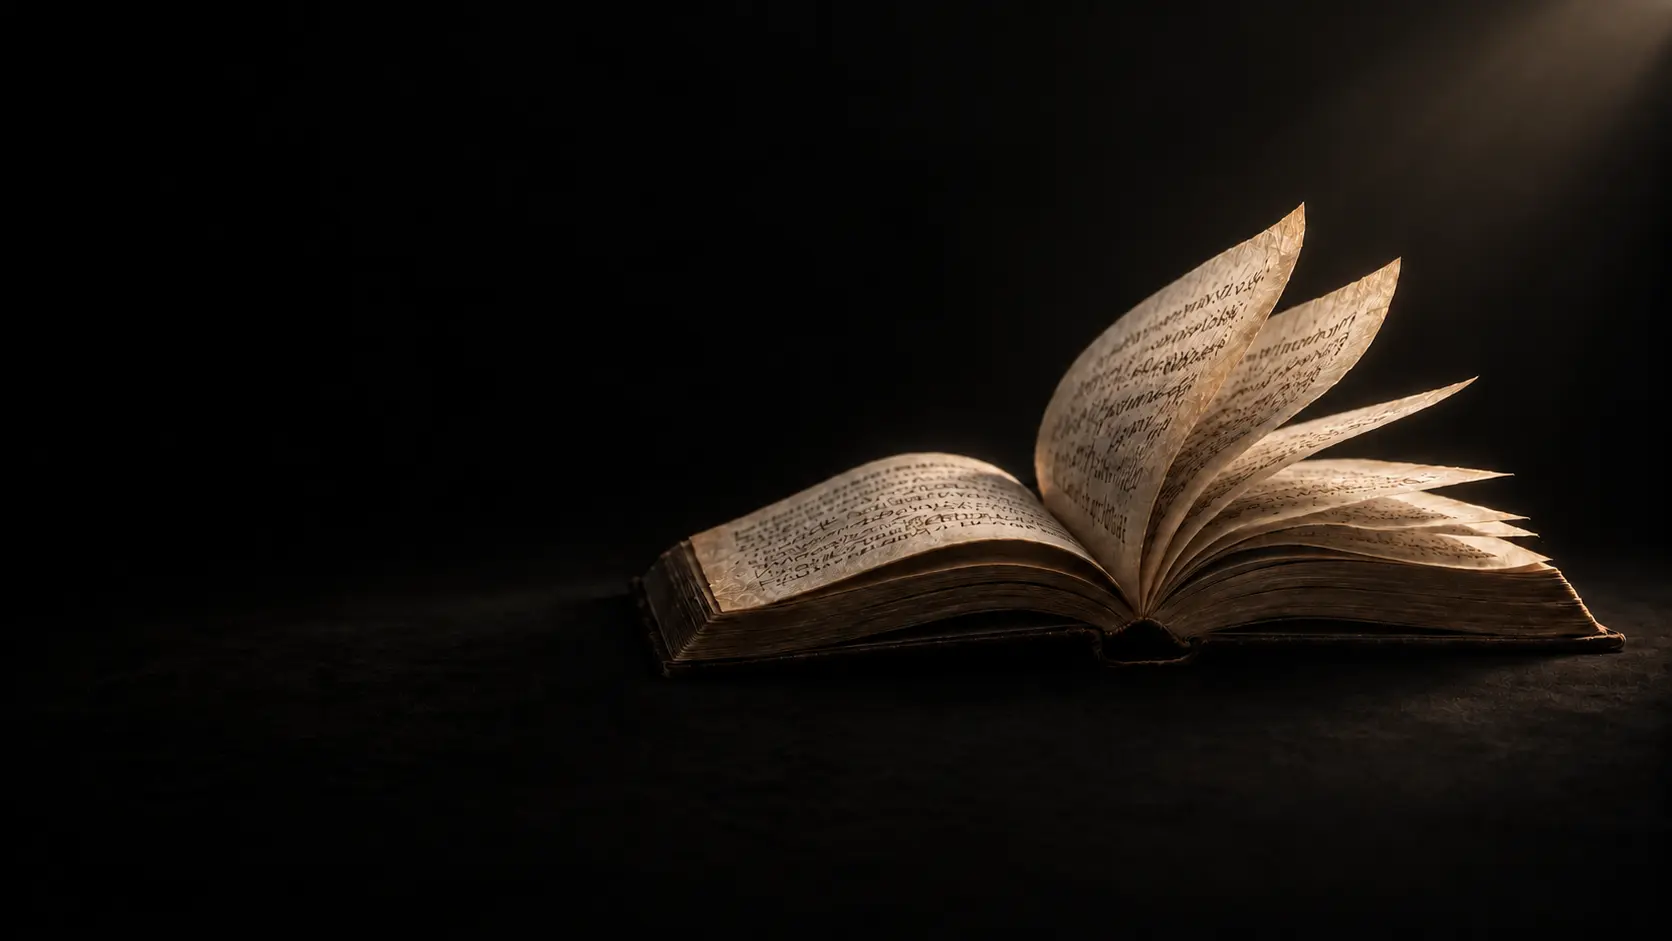
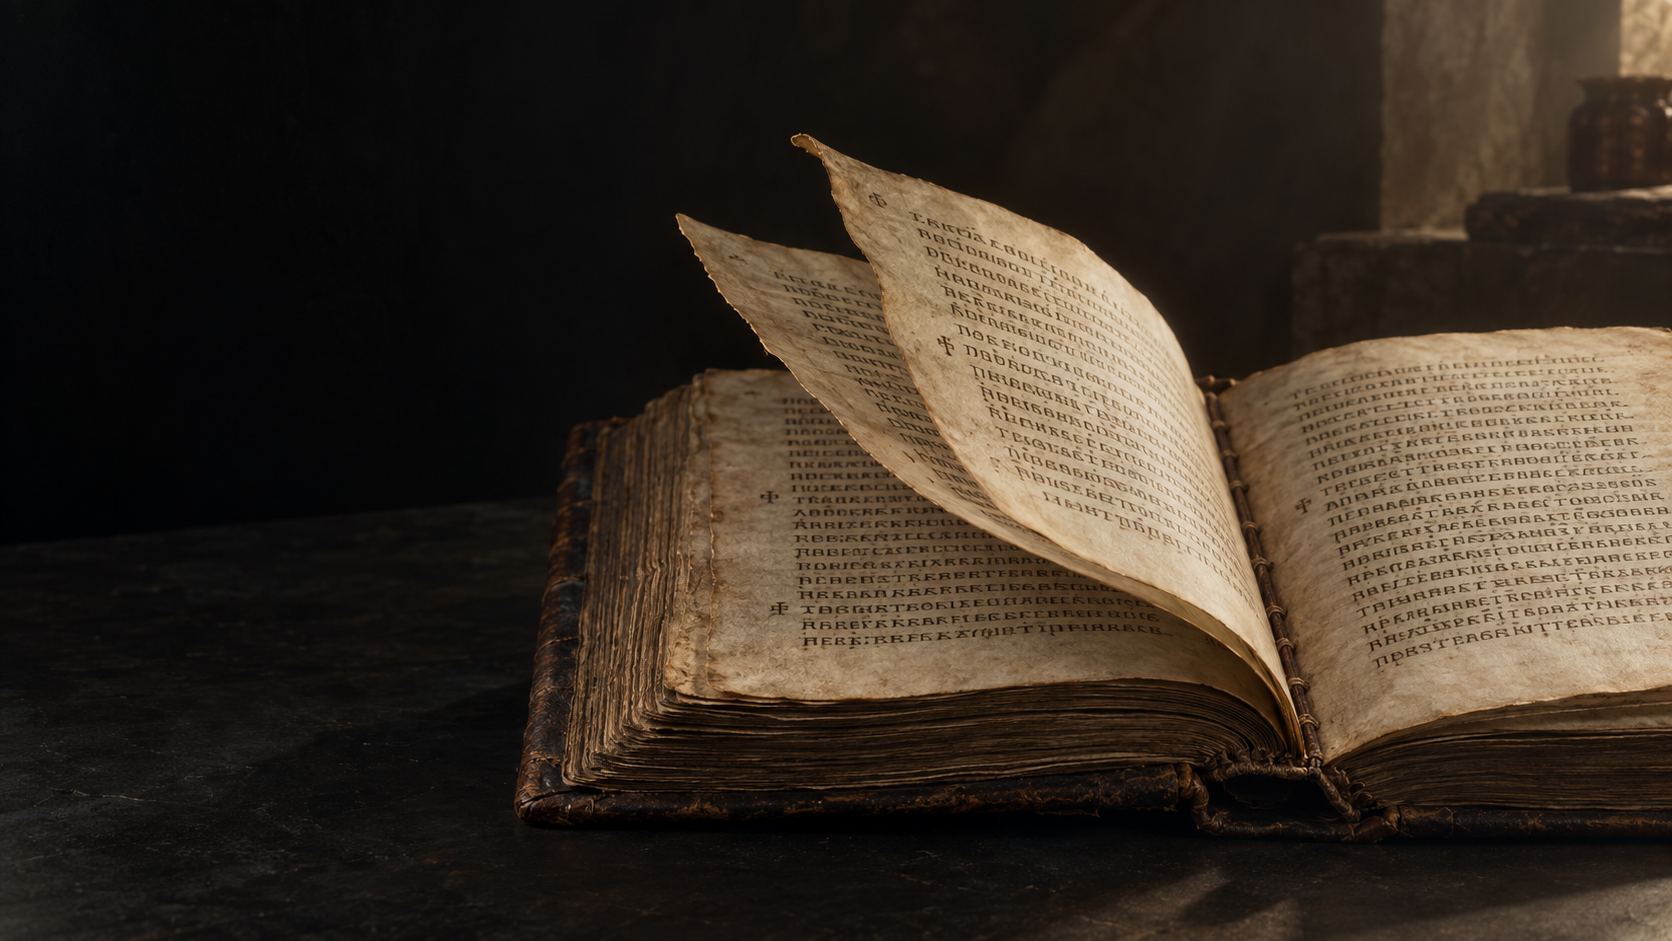
Fix hero reflow and header stacking; update manuscript artwork

diff --git a/components/v10/StoryHero.module.css b/components/v10/StoryHero.module.css
@@ -1,13 +1,16 @@
-.hero { position: relative; isolation: isolate; overflow: clip; background: #080909; color: #f2eee5; border-bottom: 1px solid #38332b; }
-.art { position: absolute; inset: 0; z-index: -3; }
-.art img { object-fit: cover; object-position: 70% center; }
-.hero::before { content: ""; position: absolute; inset: 0; pointer-events: none; z-index: -2; background: linear-gradient(90deg,#080909ed 0%,#080909b8 29%,#08090924 67%,transparent),linear-gradient(0deg,#080909 0%,#080909cf 14%,transparent 55%); }
-.light { position: absolute; inset: 0; z-index: -1; pointer-events: none; background: radial-gradient(ellipse at 78% 32%,#e0c58d12,transparent 48%); transform: translate(var(--light-x,0px),var(--light-y,0px)); transition: transform 900ms cubic-bezier(.22,.61,.36,1); }
-.inner { width: min(1440px,calc(100% - 96px)); margin: 0 auto; padding: clamp(170px,13vw,220px) 0 42px; }
-.intro { max-width: 680px; min-height: 440px; padding-bottom: 58px; }
+.hero { position: relative; isolation: isolate; background: #080909; color: #f2eee5; border-bottom: 1px solid #38332b; }
+.inner { position: relative; display: grid; grid-template-columns: minmax(0,1fr); width: min(1440px,calc(100% - 96px)); margin: 0 auto; padding: 160px 0 40px; }
+.art { position: relative; grid-area: 1 / 1; align-self: center; width: 100%; aspect-ratio: 16 / 9; overflow: hidden; pointer-events: none; z-index: 0; }
+.art img { mask-image: linear-gradient(180deg,transparent,#000 8%,#000 92%,transparent); object-fit: contain; object-position: center; }
+.art::after { content: ""; position: absolute; inset: 0; background: linear-gradient(90deg,#080909c9,transparent 58%),linear-gradient(0deg,#080909,transparent 18%); }
+.light { position: absolute; inset: 0; pointer-events: none; background: radial-gradient(ellipse at 78% 32%,#e0c58d0a,transparent 48%); transform: translate(var(--light-x,0px),var(--light-y,0px)); transition: transform 900ms cubic-bezier(.22,.61,.36,1); }
+.intro { position: relative; z-index: 1; grid-area: 1 / 1; align-self: center; width: 48%; min-width: 0; padding: 30px 0 56px; }
+.bottom { position: relative; z-index: 1; grid-row: 2; }
+.inner > * { min-width: 0; }
+.title,.description,.preview { overflow-wrap: break-word; }
 .eyebrow { color: #d5bd8d; font-size: 11px; letter-spacing: .19em; text-transform: uppercase; margin: 0 0 34px; }
 .title { margin: 0 0 28px; font-size: clamp(58px,6.1vw,94px); font-weight: 400; line-height: 1.06; letter-spacing: -.055em; text-wrap: balance; }
-.title em { display: block; color: #d5bd8d; font-family: Georgia,serif; font-weight: 400; line-height: 1.1; }
+.title em { display: block; color: #d5bd8d; font-family: Georgia,serif; font-style: italic; font-weight: 400; line-height: 1.1; }
 .description { max-width: 43ch; margin: 0; color: #c7c1b7; font-size: 17px; line-height: 1.8; }
 .actions { display: flex; flex-wrap: wrap; align-items: center; gap: 24px; margin-top: 30px; }
 .primary,.secondary { display: inline-flex; align-items: center; justify-content: center; gap: 24px; min-height: 48px; font-size: 13px; text-decoration: none; }
@@ -28,25 +31,30 @@
 .preview a { display: inline-flex; align-items: center; gap: 12px; color: #d5bd8d; min-height: 44px; font-size: 12px; text-decoration: underline; text-underline-offset: 5px; }
 .hero a:focus-visible,.hero button:focus-visible { outline: 2px solid #ffe1a0; outline-offset: 5px; }
 .srOnly { position: absolute; width: 1px; height: 1px; padding: 0; margin: -1px; overflow: hidden; clip-path: inset(50%); white-space: nowrap; border: 0; }
-@media (max-width:1100px) { .inner { width: calc(100% - 64px); } .intro { max-width: 58%; } .title { font-size: clamp(56px,7vw,78px); } .bottom { gap: 32px; grid-template-columns: .8fr 1.2fr; } }
-@media (max-width:700px) {
- .art { inset: 70px 0 auto; height: 340px; }
- .art img { object-position: 82% center; }
- .hero::before { background: linear-gradient(180deg,#080909 0px,#08090922 125px,#08090922 230px,#080909 365px),linear-gradient(90deg,#08090977,transparent); }
- .inner { width: calc(100% - 40px); padding: 340px 0 28px; }
- .intro { max-width: none; min-height: 0; padding-bottom: 34px; }
- .eyebrow { font-size: 10px; margin-bottom: 24px; letter-spacing: .13em; }
- .title { font-size: clamp(46px,10.6vw,70px); margin-bottom: 22px; }
- .description { font-size: 15px; line-height: 1.75; }
- .actions { margin-top: 24px; gap: 20px; }
- .bottom { grid-template-columns: 1fr; gap: 26px; }
- .caption > p { font-size: 23px; }
- .caption > a { display: none; }
- .choices { gap: 8px 18px; }
- .choices button { font-size: 11px; }
+
+@media (max-width:1100px) {
+ .inner { width: calc(100% - 48px); padding-top: 132px; }
+ .title { font-size: clamp(46px,6vw,70px); }
+ .bottom { gap: 32px; }
+}
+/* Reflow also applies to desktop browser zoom: content stays before the artwork. */
+@media (max-width:900px) {
+ .inner { width: calc(100% - 40px); padding: 124px 0 28px; }
+ .intro { grid-area: 1 / 1; width: 100%; padding: 0 0 24px; }
+ .art { grid-area: 2 / 1; margin: 0 0 24px; }
+ .art::after { background: linear-gradient(0deg,#080909,transparent 12%); }
+ .bottom { grid-row: 3; grid-template-columns: 1fr; gap: 24px; }
+ .eyebrow { margin-bottom: 22px; }
+ .title { font-size: clamp(42px,9vw,72px); }
+ .description { max-width: 48ch; font-size: 16px; }
  .preview { min-height: 0; }
  .light { display: none; }
 }
+@media (max-width:400px) {
+ .inner { width: calc(100% - 32px); padding-top: 166px; }
+ .actions { gap: 12px 20px; }
+ .title { font-size: 42px; }
+}
 @media (prefers-reduced-motion:reduce) { .light { transform: none; transition: none; } }
-@media (forced-colors:active) { .art,.light,.hero::before { display: none; } .hero { background: Canvas; color: CanvasText; } .primary { border: 1px solid ButtonText; } .choices button[aria-pressed="true"] { border-bottom-color: Highlight; } }
-@media print { .art,.light,.hero::before { display: none; } .inner { padding-top: 24px; } .hero { background: white; color: black; } }
+@media (forced-colors:active) { .art { display: none; } .hero { background: Canvas; color: CanvasText; } .primary { border: 1px solid ButtonText; } .choices button[aria-pressed="true"] { border-bottom-color: Highlight; } }
+@media print { .art { display: none; } .inner { padding-top: 24px; } .intro { width: 100%; } .hero { background: white; color: black; } }

diff --git a/app/v10.css b/app/v10.css
@@ -1,4 +1,4 @@
-/* V10: one shared visual language; all effects are progressive decoration. */
+/* V10: one shared visual language; all effects are progressive decoration. */
 :root {
   --v10-bg: #080909; --v10-surface: #111313; --v10-elevated: #191b1b;
   --v10-text: #f2eee5; --v10-muted: #b8b4ab; --v10-gold: #d5bd8d;
@@ -8,7 +8,7 @@
   --v10-header-layer: 500; --v10-control-size: 44px;
   --v9-black: var(--v10-bg); --v9-gold: var(--v10-gold); --v9-ivory: var(--v10-text);
 }
-.v8-header { z-index:var(--v10-header-layer); }
+.v8-header { z-index:var(--v10-header-layer,500); }
 .v8-footer-wordmark { color:#8d7958; opacity:1; }
 .v8-header-frame { gap:20px; border-color:#71604477; background:#090b0bf0; backdrop-filter:blur(16px); }
 .v8-desktop-nav { gap:22px; }
@@ -126,4 +126,12 @@
   .v10-moon-seal {
     animation: none;
   }
+}
+
+
+/* Keep every header action reachable at narrow widths and high browser zoom. */
+@media screen and (max-width:400px) {
+ .v8-header-frame { flex-wrap: wrap; gap: 4px; padding: 10px 12px; }
+ .v8-header-actions { flex: 1 1 100%; justify-content: space-between; margin-left: 0; }
+ .v8-header .v8-icon-button { width: 44px; min-width: 44px; }
 }

diff --git a/components/v10/StoryHero.tsx b/components/v10/StoryHero.tsx
@@ -55,11 +55,11 @@ export default function StoryHero({ locale, projects }: { locale: Locale; projec
 
   return (
     <section ref={frame} className={styles.hero} id="hero" data-umbra-scene="hero" aria-labelledby="umbra-hero-title">
-      <div className={styles.art} aria-hidden="true">
-        <Image src="/images/v10/umbra-story-light.webp" alt="" fill preload sizes="100vw" />
-      </div>
-      <div className={styles.light} aria-hidden="true" />
       <div className={styles.inner}>
+        <div className={styles.art} aria-hidden="true">
+          <Image src="/images/v10/umbra-story-light.webp" alt="" fill preload sizes="(min-width: 1536px) 1440px, 100vw" />
+          <div className={styles.light} />
+        </div>
         <div className={styles.intro}>
           <p className={styles.eyebrow}>{c.independent}</p>
           <h1 id="umbra-hero-title" className={styles.title}>
